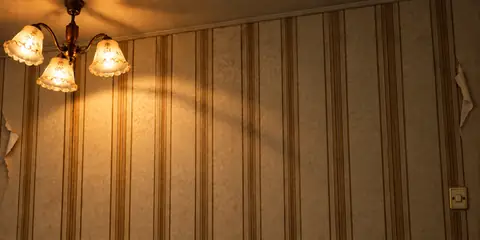
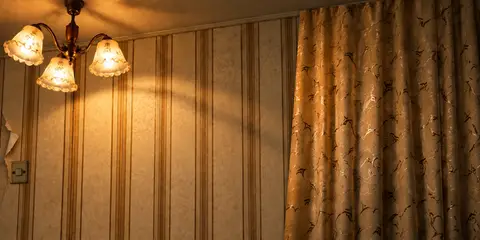
Add approved Soviet curtains and align room light controls

Changed region(s): [[0.5938, 0.0, 1.0, 1.0], [0.0, 0.6708, 0.0625, 0.7875]]

diff --git a/css/site-wallpaper.css b/css/site-wallpaper.css
@@ -15,7 +15,7 @@ body{position:relative;isolation:isolate}
 body[data-room-light="off"] .room-off{opacity:1}
 .app .site-header{position:sticky;top:0;z-index:40;background:#0e1411;box-sizing:border-box;transform:none;animation:none}
 .site-header .site-header-inner{width:100%;box-sizing:border-box;border-bottom:0;transition:none}
-.room-switch{position:fixed;z-index:46;left:95.55%;top:41.35vw;width:max(44px,4.2vw);height:max(44px,5vw);transform:translate(-50%,-50%);padding:0;border:0;border-radius:0;background:transparent;box-shadow:none;cursor:pointer;touch-action:manipulation}
+.room-switch{position:fixed;z-index:46;left:4%;top:35.90755355vw;width:max(44px,4.2vw);height:max(44px,5vw);transform:translate(-50%,-50%) matrix(1,-.055,-.03,1,0,0);padding:0;border:0;border-radius:0;background:transparent;box-shadow:none;cursor:pointer;touch-action:manipulation}
 .room-switch:focus{outline:none}
 .room-switch:focus-visible{outline:1px solid #a8b9ae;outline-offset:3px}
 .room-mobile-light{display:none}
@@ -52,3 +52,7 @@ body[data-room-light="off"] .room-off{opacity:1}
 }
 @media(max-width:360px){#home .home-index-header #index-main{font-size:88px}#forum-link .fl-filter-set{min-width:0;max-width:100%}#forum-link .fl-filters{flex-wrap:wrap}}
 @media(prefers-reduced-motion:reduce){.room-layer,.room-layer::before,.room-layer::after{transition:none}}
+
+/* Original switch plate follows the baked position; decorative pixels never intercept clicks. */
+.room-switch::before{content:"";position:absolute;left:50%;top:50%;transform:translate(-50%,-50%);width:4.17136415vw;height:4.90417136vw;pointer-events:none;background:url("./assets/switch-light-on.webp") center/100% 100% no-repeat}
+body[data-room-light="off"] .room-switch::before{background-image:url("./assets/switch-light-off.webp")}
